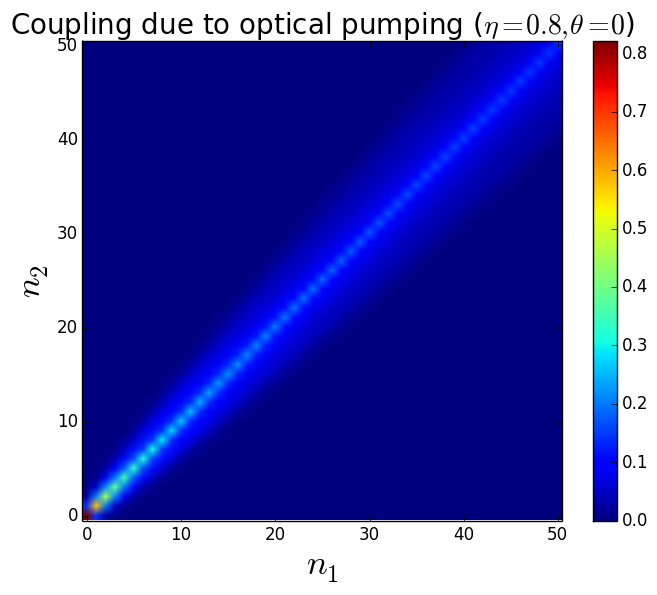
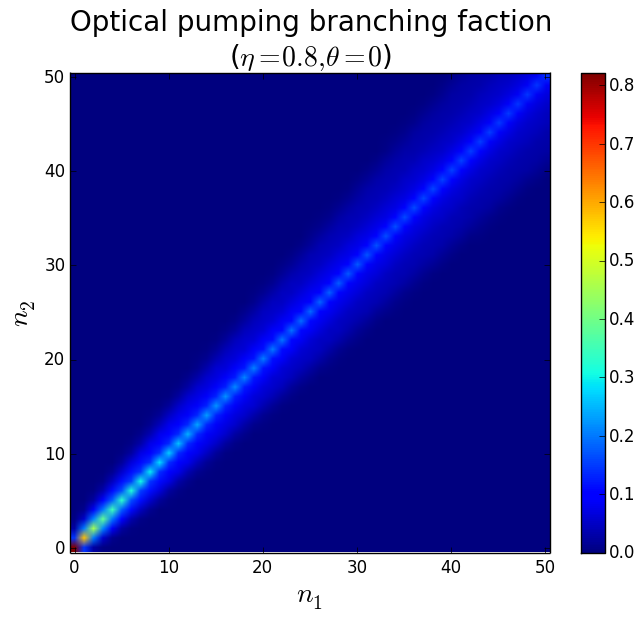
[cooling] better title

diff --git a/test.py b/test.py
@@ -43,28 +43,29 @@ def main_odt():
     print()
 
 def main_cooling():
-    __import__("matplotlib").rcParams.update({'axes.labelsize': 25,
+    __import__("matplotlib").rcParams.update({'axes.labelsize': 20,
                                               'axes.titlesize': 20})
     from pylab import plot, show, imshow, figure, colorbar, xlabel, ylabel
     from pylab import legend, title, savefig, close, grid
 
-    # figure()
-    # imshow(abs(pump_mat(50, .8, 0)), origin='lower')
-    # xlabel('$n_1$')
-    # ylabel('$n_2$')
-    # title(r'Coupling due to optical pumping ($\eta=0.8, \theta=0$)')
-    # colorbar()
-    # savefig('pump_0.8_0.png', bbox_inches='tight')
-    # close()
+    figure()
+    imshow(abs(pump_mat(50, .8, 0)), origin='lower')
+    xlabel('$n_1$')
+    ylabel('$n_2$')
+    title('Optical pumping branching faction\n($\\eta=0.8, \\theta=0$)')
+    colorbar()
+    savefig('pump_0.8_0.png', bbox_inches='tight')
+    close()
 
-    # figure()
-    # imshow(abs(pump_mat(50, .8, pi / 2)), origin='lower')
-    # xlabel('$n_1$')
-    # ylabel('$n_2$')
-    # title(r'Coupling due to optical pumping ($\eta=0.8, \theta=\frac{\pi}{2}$)')
-    # colorbar()
-    # savefig('pump_0.8_pi_2.png', bbox_inches='tight')
-    # close()
+    figure()
+    imshow(abs(pump_mat(50, .8, pi / 2)), origin='lower')
+    xlabel('$n_1$')
+    ylabel('$n_2$')
+    title('Optical pumping branching faction\n'
+          '($\\eta=0.8, \\theta=\\frac{\\pi}{2}$)')
+    colorbar()
+    savefig('pump_0.8_pi_2.png', bbox_inches='tight')
+    close()
 
     figure()
     def plot_raman_mat(n, eta, dn):
@@ -74,9 +75,10 @@ def main_cooling():
     plot_raman_mat(140, .8, 20)
     plot_raman_mat(140, .8, 8)
     plot_raman_mat(140, .8, 1)
-    title(r'Coupling ($|\langle n|e^{ikr}|n-\delta n\rangle|^2$) '
-          'for different $\delta n$ and $n$')
+    title('Coupling ($|\\langle n|e^{ikr}|n-\\delta n\\rangle|^2$)\n'
+          'for different $\\delta n$ and $n$')
     xlabel('$n$')
+    ylabel(r'$|\langle n|e^{ikr}|n-\delta n\rangle|^2$')
     legend()
     grid()
     savefig('raman_0.8.png', bbox_inches='tight')
